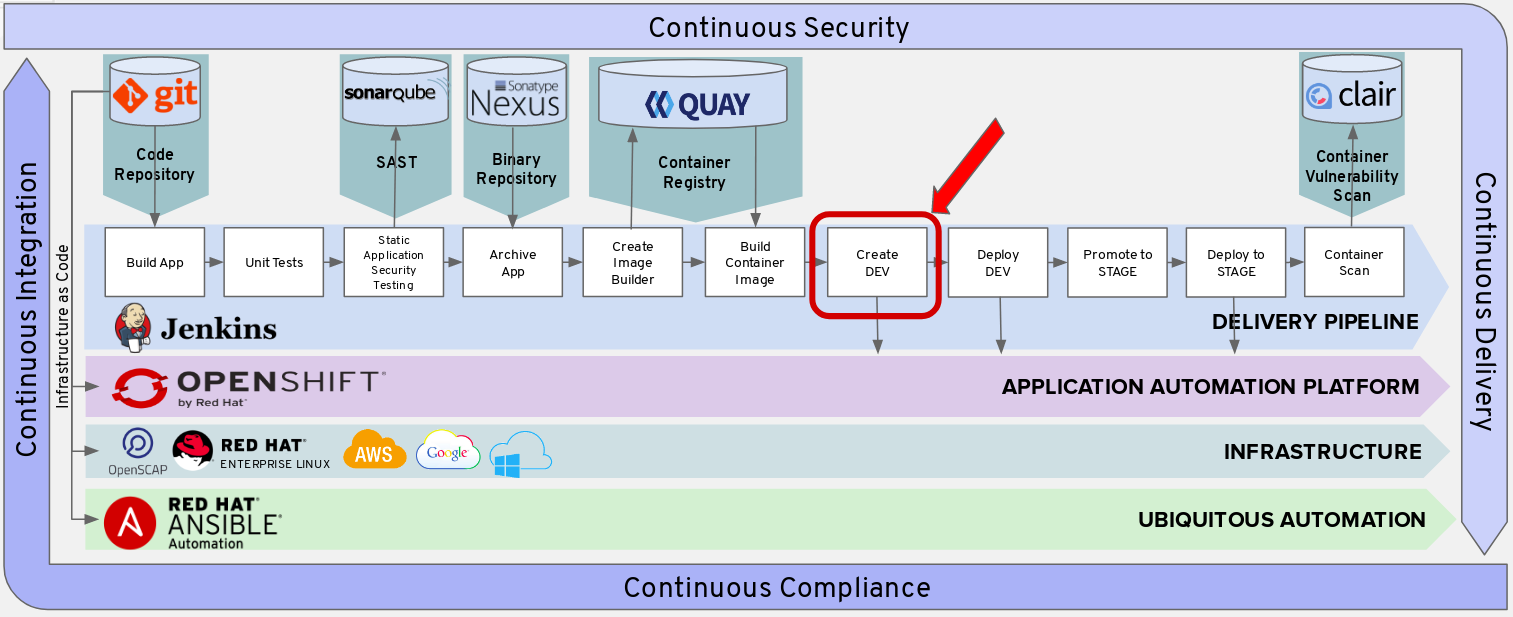
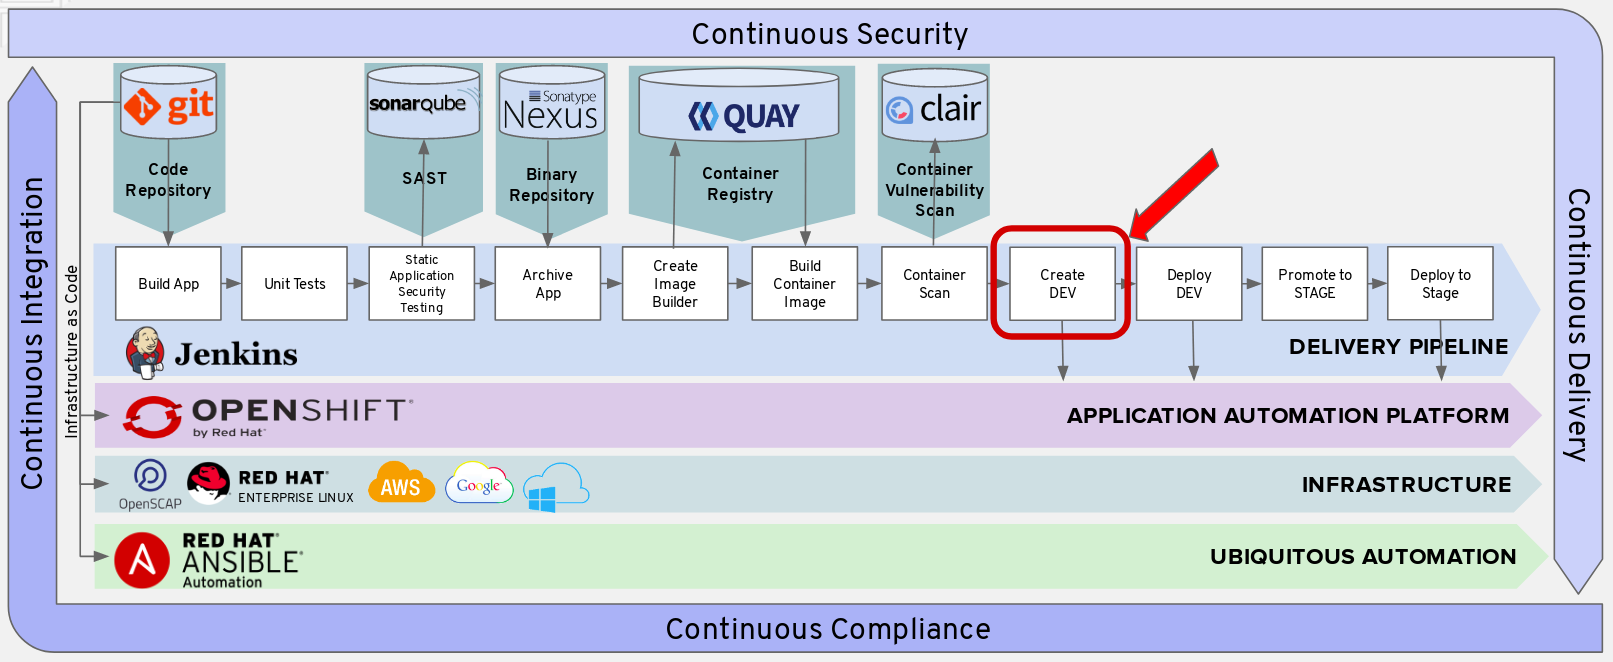
Moved Clair Container Scan and Updated Pipeline diagram

diff --git a/content/workshops/secure_software_factory/lab17.md b/content/workshops/secure_software_factory/lab17.md
@@ -1,23 +1,104 @@
 ---
-title: Lab 17 - Create Quay Repository
+title: Lab 17 - Clair Container Scan
 workshops: secure_software_factory
-workshop_weight: 29
+workshop_weight: 30
 layout: lab
 ---
-# Create Container Repository in Quay
+# Add Clair Container Scan
 
-Click Create New Repository
+Add the configuration for the Container Scan below to your pipeline text file.
 
-<img src="../images/quay_create_repo.png" width="200"><br/>
+<img src="../images/pipeline_container_scan.png" width="900"><br/>
+
+<br>
+
+# Append to Jenkins Pipeline Configuration
+
+In Builds > Pipelines > tasks-pipeline > Actions > Edit
+
+<img src="../images/pipeline_actions_edit.png" width="900" />
+
+In your pipeline, replace the Jenkins agent 'maven' with 'jenkins-slave-image-mgmt'.
+
+```
+pipeline {
+  agent {
+    label 'jenkins-slave-image-mgmt'
+  }
+```
+
+In your pipeline, add the Container Scan Stage after the Build Container Stage and before the Create Dev Stage.
+
+Please replace the following values:
+
+- \<oc user\> : this was given to you by the instructor
+- \<oc password\> : this was given to you by the instructor
+- \<oc environment\> : this was given to you by the instructor
+- \<quay user\> : created from a previous lab
+- \<quay password\> : created from a previous lab
+- \<docker repository\> : In another tab with the OpenShift Console, go to Builds > Images.  Find the Docker Repo link for "jboss-eap70-openshift". It should be value similar to "172.30.186.87:5000/cicd-user1/jboss-eap70-openshift"
+- \<quay\> : this was given to you by the instructor
+- \<quay user again\> : same user as \<quay user\>
+- \<quay repository\>  : created from the previous lab, i.e. jboss-eap70-openshift
+
+```
+    stage('Clair Container Scan') {
+      steps {
+            sh "oc login -u <oc user> -p '<oc password>'  --insecure-skip-tls-verify <oc environment> 2>&1"
+            sh 'echo "$(oc whoami):$(oc whoami -t)" > /tmp/srccreds'
+            sh 'skopeo --debug copy --src-creds="$(cat /tmp/srccreds)" --src-tls-verify=false --dest-tls-verify=false --dest-creds=<quay user>:<quay password> docker://<docker repo>:1.5 docker://<quay>/<quay user again>/<quay repository>:1.5'
+        }
+    }
+```
+
+For an example, see the following:
+
+```
+stage('Clair Container Scan') {
+  steps {
+        sh "oc login -u user1 -p 'redhat!@#' --insecure-skip-tls-verify https://master.ocp-naps.redhatgov.io:8443 2>&1"
+        sh 'echo "$(oc whoami):$(oc whoami -t)" > /tmp/srccreds'
+        sh 'skopeo --debug copy --src-creds="$(cat /tmp/srccreds)" --src-tls-verify=false --dest-tls-verify=false --dest-creds=user3:redhat123 docker://docker-registry.default.svc:5000/cicd-user1/jboss-eap70-openshift:1.5 docker://quay-enterprise-quay-enterprise.apps.ocp-naps.redhatgov.io/user1/jboss-eap70-openshift:1.5'
+    }
+}
+```
+
+Save your Jenkins file
+
+# Run Pipeline
+
+Go to Builds > Pipeline
+
+Click Start Pipeline for the pipeline you just created called tasks-pipeline.
+
+Your pipeline should now execute through all the stages you created.  
+
+Go ahead and click View Log.  This will take you to the Jenkins logs and you can follow the various stages in your pipeline.
+
+When it asks to promote to stage, go ahead and promote it.
+
+<img src="../images/pipeline_execution.png" width="900"><br/>
 
 <br>
 
-Enter Name of Repository, i.e. jboss-eap70-openshift
+# View Clair Container Scan Report in Quay
 
-Select Public to make this a Public Repository
+Select your Repository you created from the previous lab
 
-Click Create Public Repository
-
-<img src="../images/quay_repo_config.png" width="500"><br/>
+<img src="../images/quay_repo.png" width="900"><br/>
 
 <br>
+
+Select Repository Tags on the left hand menu
+
+  - If your scan is queued, you will need to wait for the scan to finish to view the report
+
+Select the Security Scan for your Image
+
+<img src="../images/quay_repo_tags.png" width="900"><br/>
+
+<br>
+
+View the Security Scan Report
+
+<img src="../images/quay_scan.png" width="900"><br/>

diff --git a/content/workshops/secure_software_factory/lab16.md b/content/workshops/secure_software_factory/lab16.md
@@ -1,5 +1,5 @@
 ---
-title: Lab 16 - Create Quay Account
+title: Lab 16 - Create Quay Account and Repo
 workshops: secure_software_factory
 workshop_weight: 28
 layout: lab
@@ -26,3 +26,21 @@ Click Create Account
 <br>
 
 <img src="../images/quay_create_account.png" width="400"><br/>
+
+# Create Container Repository in Quay
+
+Once you are logged into Quay, Click Create New Repository
+
+<img src="../images/quay_create_repo.png" width="200"><br/>
+
+<br>
+
+Enter Name of Repository, i.e. jboss-eap70-openshift
+
+Select Public to make this a Public Repository
+
+Click Create Public Repository
+
+<img src="../images/quay_repo_config.png" width="500"><br/>
+
+<br>

diff --git a/content/workshops/secure_software_factory/lab15.md b/content/workshops/secure_software_factory/lab15.md
@@ -51,7 +51,7 @@ Enter the Gogs repository http url for openshift-tasks as the Git repository url
 See the url below as an example.  
 
   - Replace [gogs-hostname] with your gogs server.
-  - http://gogs:gogs@[gogs-hostname]/gogs/openshift-tasks.git
+    - http://gogs:gogs@[gogs-hostname]/gogs/openshift-tasks.git
   - So it should look something like this:
     - http://gogs:gogs@gogs-cicd-user2.192.168.42.136.nip.io/gogs/openshift-tasks.git
 
